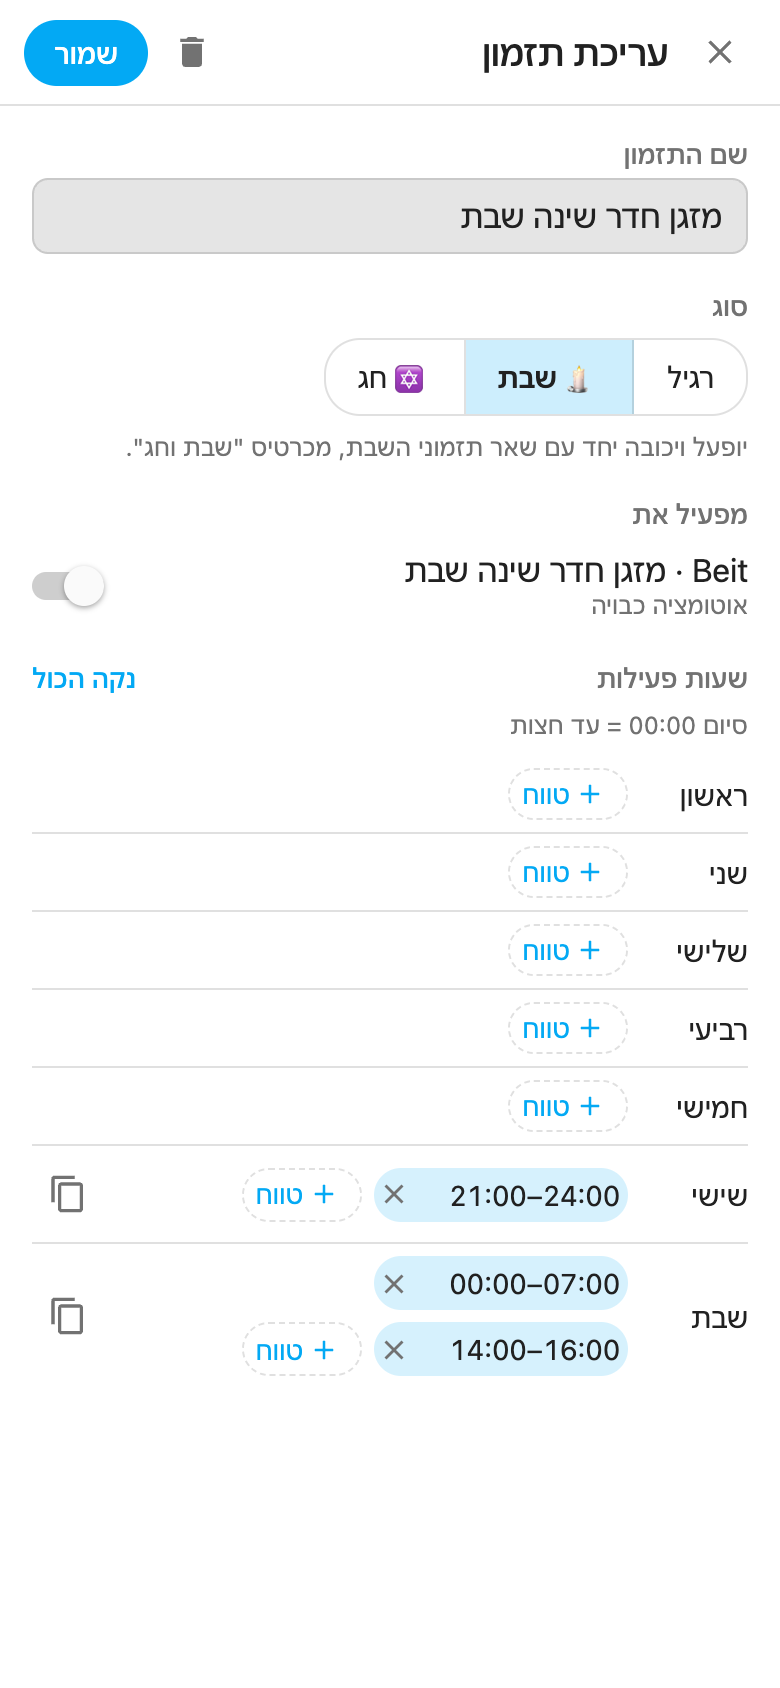
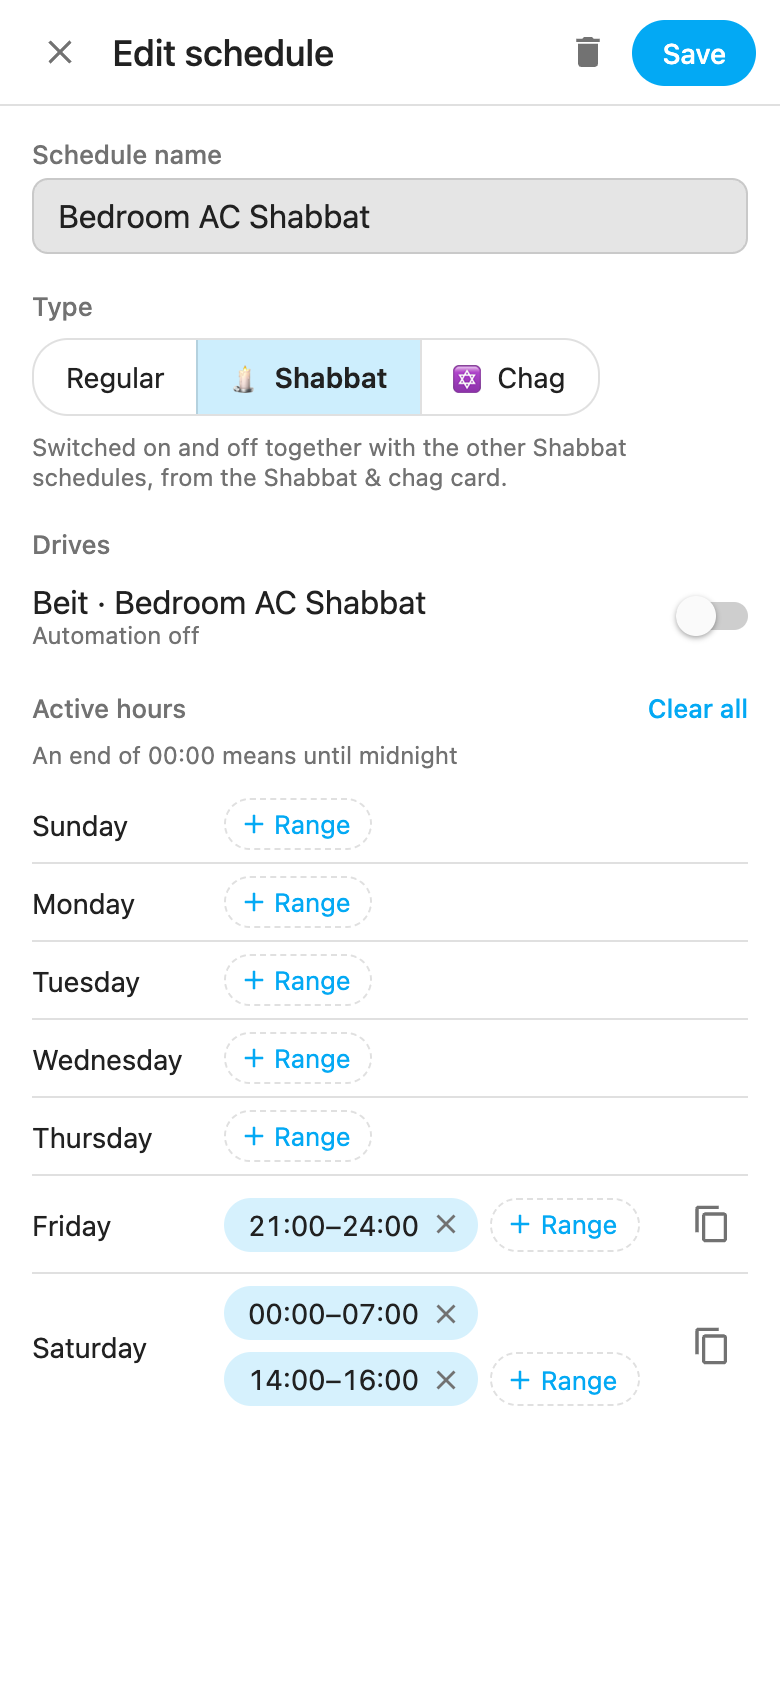
Take the README screenshots in English
The README is in English, so its screenshots are too. With ?lang=en the preview
now renames the synthetic house (dev/english-house.mjs): the rooms, devices,
schedules and calendar values. The Beit marker and the mode labels stay in
Hebrew, since they are part of the data contract. dev/screenshots.mjs takes
every shot in English.

diff --git a/dev/card-preview.html b/dev/card-preview.html
@@ -81,7 +81,8 @@
     source = await connectLive({ writes, language: lang, log, onChange: (h) => push(h) });
   } else {
     const names = ['states', 'schedule_list', 'automation_configs', 'label_registry', 'entity_registry_display', 'area_registry', 'device_registry'];
-    const fixtures = Object.fromEntries(await Promise.all(names.map(async (n) => [n, await (await fetch(`../tests/fixtures/${n}.json`)).json()])));
+    let fixtures = Object.fromEntries(await Promise.all(names.map(async (n) => [n, await (await fetch(`../tests/fixtures/${n}.json`)).json()])));
+    if (lang === 'en') fixtures = (await import('./english-house.mjs')).englishHouse(fixtures);
     const fake = new FakeHass(fixtures, { isAdmin: q.get('admin') !== '0', language: lang, stateDelay: 300 });
     window.fake = fake;
     source = fake;

diff --git a/README.md b/README.md
@@ -49,15 +49,15 @@
 
 ## Screenshots
 
-All screenshots use the invented house in `tests/fixtures`.
+All screenshots use the invented house in `tests/fixtures`, in English. The cards are Hebrew-first: in Hebrew, the whole layout is right to left.
 
 | Editing a schedule | A new schedule for an air conditioner |
 |:-:|:-:|
 | <img src="docs/editor.png" alt="The editor: name, Shabbat mode, the automations it drives and the week" width="380"> | <img src="docs/new-schedule.png" alt="A new schedule: the device, HVAC mode, temperature and turn off at the end" width="380"> |
 
-| English, dark theme, fixed height | On a phone |
+| Dark theme, fixed height | On a phone |
 |:-:|:-:|
-| <img src="docs/dark-english.png" alt="Both cards in English with a dark theme" width="440"> | <img src="docs/mobile.png" alt="The editor full screen on a phone" width="220"> |
+| <img src="docs/dark-english.png" alt="Both cards with a dark theme and a fixed height" width="440"> | <img src="docs/mobile.png" alt="The editor full screen on a phone" width="220"> |
 
 ## Why Beit Schedule Card
 
